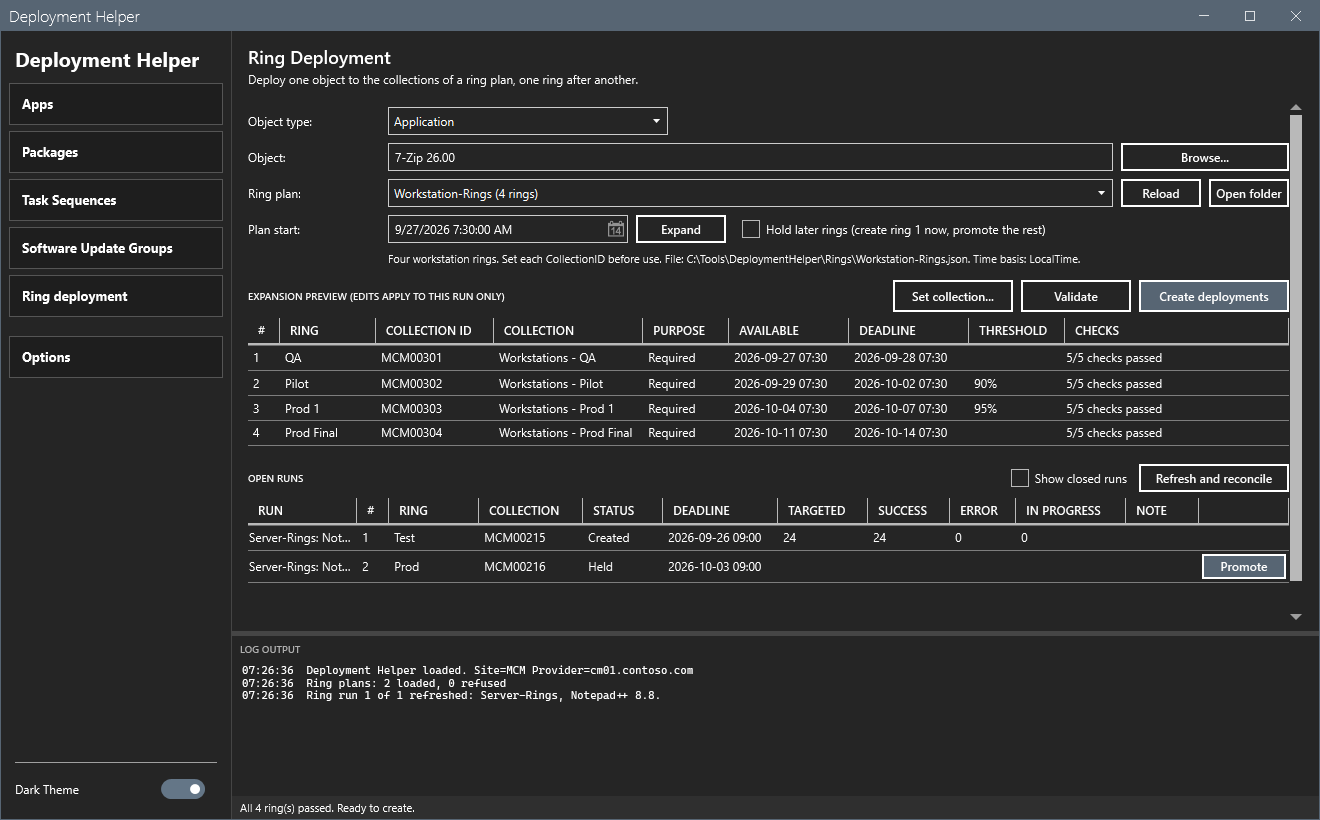
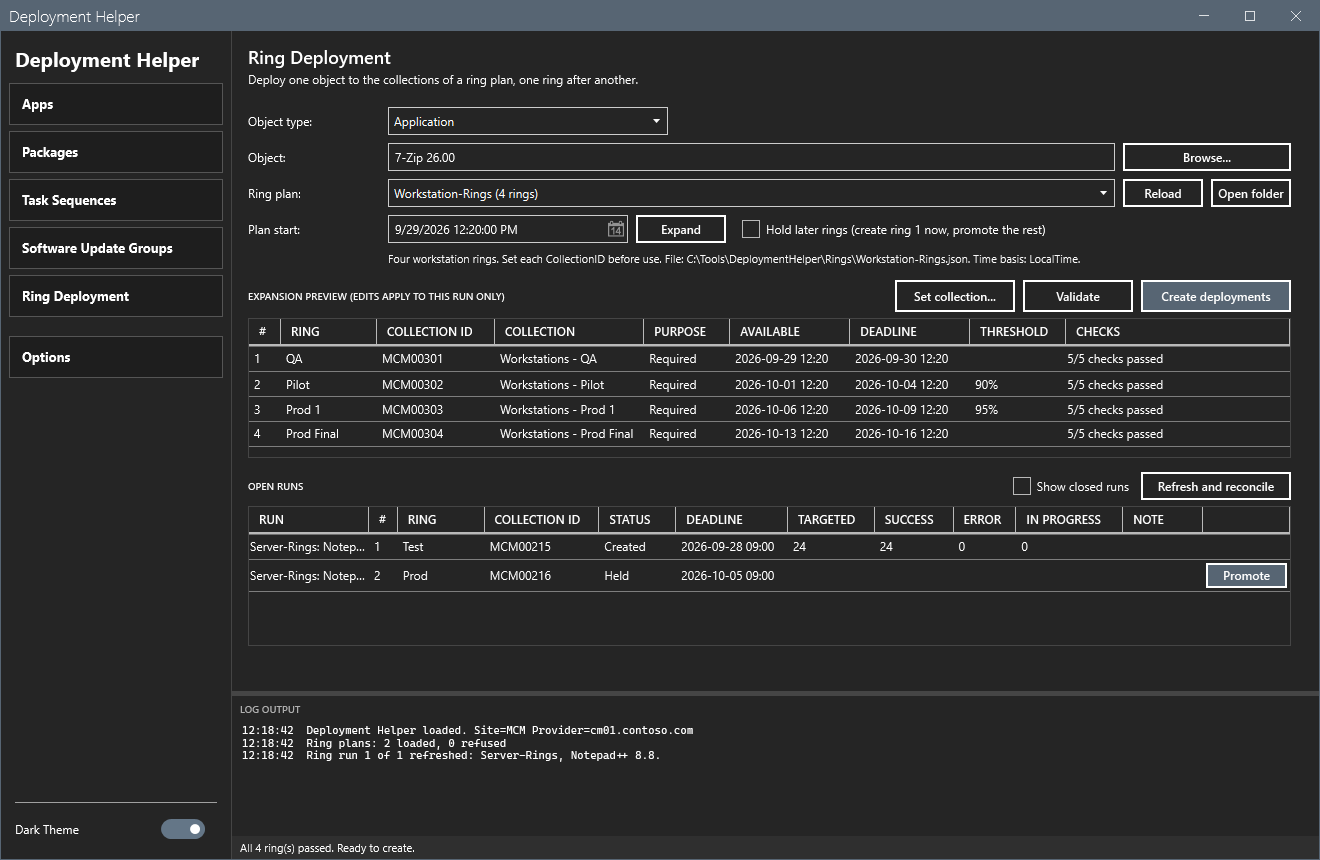
Show every object in the browse lists; name browse columns in full; match labels, product name, checkbox names, muted text, and dialog sizes across panes; hide the deadline for Available; fit the ring view at 1320 x 860; outline the ring grids; add a scroll bar gutter; update the screenshots; sync S

diff --git a/MainWindow.xaml b/MainWindow.xaml
@@ -3,7 +3,7 @@
     xmlns:x="http://schemas.microsoft.com/winfx/2006/xaml"
     xmlns:Controls="clr-namespace:MahApps.Metro.Controls;assembly=MahApps.Metro"
     Title="Deployment Helper"
-    Width="1280" Height="720"
+    Width="1320" Height="860"
     MinWidth="960" MinHeight="600"
     WindowStartupLocation="CenterScreen"
     TitleCharacterCasing="Normal"
@@ -182,7 +182,7 @@
                                 ToolTip="Deploy a task sequence to a device collection"/>
                         <Button x:Name="btnSUG"             Content="Software Update Groups" Style="{StaticResource WorkflowButtonStyle}"
                                 ToolTip="Deploy a software update group to a device collection"/>
-                        <Button x:Name="btnRings"           Content="Ring deployment"        Style="{StaticResource WorkflowButtonStyle}"
+                        <Button x:Name="btnRings"           Content="Ring Deployment"        Style="{StaticResource WorkflowButtonStyle}"
                                 ToolTip="Deploy one object to several collections in rings from a ring plan"/>
 
                         <Button x:Name="btnOptions"         Content="Options"                Style="{StaticResource OptionsButtonStyle}"
@@ -205,7 +205,7 @@
                 <RowDefinition Height="Auto"/>
                 <RowDefinition Height="*"/>
                 <RowDefinition Height="Auto"/>
-                <RowDefinition Height="160"/>
+                <RowDefinition Height="140"/>
                 <RowDefinition Height="Auto"/>
             </Grid.RowDefinitions>
 
@@ -232,11 +232,14 @@
                     <RowDefinition Height="Auto"/>
                 </Grid.RowDefinitions>
                 <ScrollViewer Grid.Row="0" VerticalScrollBarVisibility="Auto">
-                <StackPanel>
+                <StackPanel Margin="0,0,12,0">
 
                     <!-- Shared form fields (visible for all types) -->
                     <Grid>
                         <Grid.RowDefinitions>
+                            <RowDefinition Height="Auto"/>
+                            <RowDefinition Height="Auto"/>
+                            <RowDefinition Height="Auto"/>
                             <RowDefinition Height="Auto"/>
                             <RowDefinition Height="Auto"/>
                             <RowDefinition Height="Auto"/>
@@ -259,7 +262,7 @@
                         <TextBox x:Name="txtTargetName" Grid.Row="0" Grid.Column="1" FontSize="12" Height="28" VerticalContentAlignment="Center" Margin="0,8,0,8"
                                  Controls:TextBoxHelper.Watermark="e.g. 7-Zip 26.00"/>
                         <Button x:Name="btnBrowseTarget" Grid.Row="0" Grid.Column="2" Content="Browse..." Style="{StaticResource BrowseButtonStyle}" Margin="8,8,0,8"
-                                ToolTip="Pick an application, package, task sequence, or SUG from ConfigMgr"/>
+                                ToolTip="Pick an application, package, task sequence, or SUG from Configuration Manager"/>
 
                         <!-- Program (Packages type only) -->
                         <TextBlock x:Name="lblProgram" Grid.Row="1" Grid.Column="0" Text="Program:" Style="{StaticResource FormLabelStyle}" Margin="0,0,12,8" Visibility="Collapsed"/>
@@ -272,7 +275,7 @@
                         <TextBox x:Name="txtCollection" Grid.Row="2" Grid.Column="1" FontSize="12" Height="28" VerticalContentAlignment="Center" Margin="0,0,0,8"
                                  Controls:TextBoxHelper.Watermark="Device collection name (e.g. Workstations - Pilot)"/>
                         <Button x:Name="btnBrowseCollection" Grid.Row="2" Grid.Column="2" Content="Browse..." Style="{StaticResource BrowseButtonStyle}" Margin="8,0,0,8"
-                                ToolTip="Pick a device collection from ConfigMgr"/>
+                                ToolTip="Pick a device collection from Configuration Manager"/>
 
                         <!-- Purpose -->
                         <TextBlock Grid.Row="3" Grid.Column="0" Text="Purpose:" Style="{StaticResource FormLabelStyle}" Margin="0,0,12,8"/>
@@ -287,9 +290,9 @@
                                                  FontSize="12" Height="28" Margin="0,0,0,8"/>
 
                         <!-- Deadline datetime (only when Required) -->
-                        <TextBlock x:Name="lblDeadline" Grid.Row="5" Grid.Column="0" Text="Deadline:" Style="{StaticResource FormLabelStyle}" Margin="0,0,12,8"/>
+                        <TextBlock x:Name="lblDeadline" Grid.Row="5" Grid.Column="0" Text="Deadline:" Style="{StaticResource FormLabelStyle}" Margin="0,0,12,8" Visibility="Collapsed"/>
                         <Controls:DateTimePicker x:Name="dtpDeadline" Grid.Row="5" Grid.Column="1" Width="240" HorizontalAlignment="Left"
-                                                 FontSize="12" Height="28" IsEnabled="False" Margin="0,0,0,8"/>
+                                                 FontSize="12" Height="28" Visibility="Collapsed" Margin="0,0,0,8"/>
 
                         <!-- Notification (Apps type only; packages don't use UserNotification) -->
                         <TextBlock x:Name="lblNotification" Grid.Row="6" Grid.Column="0" Text="Notification:" Style="{StaticResource FormLabelStyle}" Margin="0,0,12,8"/>
@@ -323,68 +326,49 @@
                         <!-- Required-only: override service window + reboot outside -->
                         <StackPanel x:Name="pnlRequiredOptions" Grid.Row="9" Grid.Column="1" Grid.ColumnSpan="2" Orientation="Vertical" Margin="0,0,0,8" Visibility="Collapsed">
                             <CheckBox x:Name="chkOverrideSW"   Content="Override maintenance window"    FontSize="12" Margin="0,0,0,4"/>
-                            <CheckBox x:Name="chkRebootOutSW"  Content="Reboot outside maintenance window" FontSize="12" Margin="0,0,0,4"/>
-                            <CheckBox x:Name="chkMetered"      Content="Allow install on metered network" FontSize="12" Margin="0,0,0,0"/>
+                            <CheckBox x:Name="chkRebootOutSW"  Content="Allow restart outside maintenance window" FontSize="12" Margin="0,0,0,4"/>
+                            <CheckBox x:Name="chkMetered"      Content="Allow download on metered network" FontSize="12" Margin="0,0,0,0"/>
                         </StackPanel>
 
-                        <!-- Packages-only options: network behavior + rerun + Required-extras. -->
-                        <!-- Self-contained on Grid.Row=9 so no overlap with pnlRequiredOptions   -->
-                        <!-- (which is now Apps-only).                                            -->
+                        <!-- Packages-only checkboxes; the network and rerun rows are rows 10-12. -->
                         <StackPanel x:Name="pnlPackageOptions" Grid.Row="9" Grid.Column="1" Grid.ColumnSpan="2" Orientation="Vertical" Margin="0,0,0,8" Visibility="Collapsed">
-                            <CheckBox x:Name="chkPkgOverrideSW"   Content="Override maintenance window (install outside MW)" FontSize="12" Margin="0,0,0,4"/>
-                            <CheckBox x:Name="chkPkgRebootOutSW"  Content="Allow restart outside maintenance window"         FontSize="12" Margin="0,0,0,4"/>
-                            <CheckBox x:Name="chkPkgMetered"      Content="Use metered network"                              FontSize="12" Margin="0,0,0,4"/>
-                            <Grid Margin="0,0,0,4">
-                                <Grid.ColumnDefinitions>
-                                    <ColumnDefinition Width="140"/>
-                                    <ColumnDefinition Width="*"/>
-                                </Grid.ColumnDefinitions>
-                                <TextBlock Grid.Column="0" Text="Fast network:" FontSize="12" VerticalAlignment="Center"/>
-                                <ComboBox  Grid.Column="1" x:Name="cboPkgFastNetwork" FontSize="12" Height="26">
-                                    <ComboBoxItem Tag="DownloadContentFromDistributionPointAndRunLocally" Content="Download content from DP and run locally" IsSelected="True"/>
-                                    <ComboBoxItem Tag="RunProgramFromDistributionPoint"                    Content="Run program from DP"/>
-                                </ComboBox>
-                            </Grid>
-                            <Grid Margin="0,0,0,4">
-                                <Grid.ColumnDefinitions>
-                                    <ColumnDefinition Width="140"/>
-                                    <ColumnDefinition Width="*"/>
-                                </Grid.ColumnDefinitions>
-                                <TextBlock Grid.Column="0" Text="Slow network:" FontSize="12" VerticalAlignment="Center"/>
-                                <ComboBox  Grid.Column="1" x:Name="cboPkgSlowNetwork" FontSize="12" Height="26">
-                                    <ComboBoxItem Tag="DoNotRunProgram"                                 Content="Do not run program" IsSelected="True"/>
-                                    <ComboBoxItem Tag="DownloadContentFromDistributionPointAndLocally"  Content="Download content from DP and run locally"/>
-                                    <ComboBoxItem Tag="RunProgramFromDistributionPoint"                 Content="Run program from DP"/>
-                                </ComboBox>
-                            </Grid>
-                            <Grid>
-                                <Grid.ColumnDefinitions>
-                                    <ColumnDefinition Width="140"/>
-                                    <ColumnDefinition Width="*"/>
-                                </Grid.ColumnDefinitions>
-                                <TextBlock Grid.Column="0" Text="Rerun behavior:" FontSize="12" VerticalAlignment="Center"/>
-                                <ComboBox  Grid.Column="1" x:Name="cboPkgRerun" FontSize="12" Height="26">
-                                    <ComboBoxItem Tag="NeverRerunDeployedProgram"         Content="Never rerun deployed program" IsSelected="True"/>
-                                    <ComboBoxItem Tag="AlwaysRerunProgram"                Content="Always rerun program"/>
-                                    <ComboBoxItem Tag="RerunIfFailedPreviousAttempt"      Content="Rerun if failed previous attempt"/>
-                                    <ComboBoxItem Tag="RerunIfSucceededOnPreviousAttempt" Content="Rerun if succeeded on previous attempt"/>
-                                </ComboBox>
-                            </Grid>
+                            <CheckBox x:Name="chkPkgOverrideSW"   Content="Override maintenance window"             FontSize="12" Margin="0,0,0,4"/>
+                            <CheckBox x:Name="chkPkgRebootOutSW"  Content="Allow restart outside maintenance window" FontSize="12" Margin="0,0,0,4"/>
+                            <CheckBox x:Name="chkPkgMetered"      Content="Allow download on metered network"       FontSize="12" Margin="0,0,0,0"/>
                         </StackPanel>
+
+                        <TextBlock x:Name="lblPkgFastNetwork" Grid.Row="10" Grid.Column="0" Text="Fast network:" Style="{StaticResource FormLabelStyle}" Margin="0,0,12,8" Visibility="Collapsed"/>
+                        <ComboBox  x:Name="cboPkgFastNetwork" Grid.Row="10" Grid.Column="1" Grid.ColumnSpan="2" FontSize="12" Height="28" VerticalContentAlignment="Center" Margin="0,0,0,8" Visibility="Collapsed">
+                            <ComboBoxItem Tag="DownloadContentFromDistributionPointAndRunLocally" Content="Download content from DP and run locally" IsSelected="True"/>
+                            <ComboBoxItem Tag="RunProgramFromDistributionPoint"                    Content="Run program from DP"/>
+                        </ComboBox>
+                        <TextBlock x:Name="lblPkgSlowNetwork" Grid.Row="11" Grid.Column="0" Text="Slow network:" Style="{StaticResource FormLabelStyle}" Margin="0,0,12,8" Visibility="Collapsed"/>
+                        <ComboBox  x:Name="cboPkgSlowNetwork" Grid.Row="11" Grid.Column="1" Grid.ColumnSpan="2" FontSize="12" Height="28" VerticalContentAlignment="Center" Margin="0,0,0,8" Visibility="Collapsed">
+                            <ComboBoxItem Tag="DoNotRunProgram"                                 Content="Do not run program" IsSelected="True"/>
+                            <ComboBoxItem Tag="DownloadContentFromDistributionPointAndLocally"  Content="Download content from DP and run locally"/>
+                            <ComboBoxItem Tag="RunProgramFromDistributionPoint"                 Content="Run program from DP"/>
+                        </ComboBox>
+                        <TextBlock x:Name="lblPkgRerun" Grid.Row="12" Grid.Column="0" Text="Rerun behavior:" Style="{StaticResource FormLabelStyle}" Margin="0,0,12,8" Visibility="Collapsed"/>
+                        <ComboBox  x:Name="cboPkgRerun" Grid.Row="12" Grid.Column="1" Grid.ColumnSpan="2" FontSize="12" Height="28" VerticalContentAlignment="Center" Margin="0,0,0,8" Visibility="Collapsed">
+                            <ComboBoxItem Tag="NeverRerunDeployedProgram"         Content="Never rerun deployed program" IsSelected="True"/>
+                            <ComboBoxItem Tag="AlwaysRerunProgram"                Content="Always rerun program"/>
+                            <ComboBoxItem Tag="RerunIfFailedPreviousAttempt"      Content="Rerun if failed previous attempt"/>
+                            <ComboBoxItem Tag="RerunIfSucceededOnPreviousAttempt" Content="Rerun if succeeded on previous attempt"/>
+                        </ComboBox>
 
                         <!-- Task Sequence-only options -->
                         <StackPanel x:Name="pnlTaskSequenceOptions" Grid.Row="9" Grid.Column="1" Grid.ColumnSpan="2" Orientation="Vertical" Margin="0,0,0,8" Visibility="Collapsed">
-                            <CheckBox x:Name="chkTsOverrideSW"   Content="Override maintenance window (install outside MW)" FontSize="12" Margin="0,0,0,4"/>
+                            <CheckBox x:Name="chkTsOverrideSW"   Content="Override maintenance window" FontSize="12" Margin="0,0,0,4"/>
                             <CheckBox x:Name="chkTsRebootOutSW"  Content="Allow restart outside maintenance window"         FontSize="12" Margin="0,0,0,4"/>
-                            <CheckBox x:Name="chkTsMetered"      Content="Use metered network"                              FontSize="12" Margin="0,0,0,4"/>
+                            <CheckBox x:Name="chkTsMetered"      Content="Allow download on metered network" FontSize="12" Margin="0,0,0,4"/>
                             <CheckBox x:Name="chkShowProgress"   Content="Show task sequence progress on client" FontSize="12" Margin="0,0,0,0" IsChecked="True"/>
                         </StackPanel>
 
                         <!-- SUG-only options -->
                         <StackPanel x:Name="pnlSUGOptions" Grid.Row="9" Grid.Column="1" Grid.ColumnSpan="2" Orientation="Vertical" Margin="0,0,0,8" Visibility="Collapsed">
-                            <CheckBox x:Name="chkSugOverrideSW"   Content="Override maintenance window (install outside MW)" FontSize="12" Margin="0,0,0,4"/>
+                            <CheckBox x:Name="chkSugOverrideSW"   Content="Override maintenance window" FontSize="12" Margin="0,0,0,4"/>
                             <CheckBox x:Name="chkSugAllowRestart" Content="Allow restart outside maintenance window"         FontSize="12" Margin="0,0,0,4"/>
-                            <CheckBox x:Name="chkSugMetered"      Content="Use metered network"                              FontSize="12" Margin="0,0,0,4"/>
+                            <CheckBox x:Name="chkSugMetered"      Content="Allow download on metered network" FontSize="12" Margin="0,0,0,4"/>
                             <CheckBox x:Name="chkMSFallback"       Content="Fall back to Microsoft Update if no DP has content" FontSize="12" Margin="0,0,0,4"/>
                             <CheckBox x:Name="chkBoundaryFallback" Content="Allow fallback to neighbor boundary groups" FontSize="12" Margin="0,0,0,4" IsChecked="True"/>
                             <CheckBox x:Name="chkFullScan"         Content="Require post-reboot full scan" FontSize="12" Margin="0,0,0,0" IsChecked="True"/>
@@ -397,7 +381,7 @@
                         <StackPanel>
                             <StackPanel Orientation="Horizontal" Margin="0,0,0,4">
                                 <TextBlock x:Name="glyphCheck1" Text="&#x22EF;" Style="{StaticResource CheckGlyphStyle}"/>
-                                <TextBlock x:Name="lblCheck1"   Text="Application exists in ConfigMgr"        Style="{StaticResource CheckLabelStyle}"/>
+                                <TextBlock x:Name="lblCheck1"   Text="Application exists in Configuration Manager" Style="{StaticResource CheckLabelStyle}"/>
                             </StackPanel>
                             <StackPanel Orientation="Horizontal" Margin="0,0,0,4">
                                 <TextBlock x:Name="glyphCheck2" Text="&#x22EF;" Style="{StaticResource CheckGlyphStyle}"/>
@@ -426,18 +410,18 @@
                     <Button x:Name="btnValidate" Content="Validate" MinWidth="110" Height="32" Margin="0,0,8,0"
                             Style="{DynamicResource MahApps.Styles.Button.Square}"
                             Controls:ControlsHelper.ContentCharacterCasing="Normal"
-                            ToolTip="Check all fields against ConfigMgr and confirm the deployment is ready"/>
+                            ToolTip="Check all fields against Configuration Manager and confirm the deployment is ready"/>
                     <Button x:Name="btnDeploy"   Content="Deploy"   MinWidth="110" Height="32" Visibility="Collapsed"
                             Style="{DynamicResource MahApps.Styles.Button.Square.Accent}"
                             Controls:ControlsHelper.ContentCharacterCasing="Normal"
-                            ToolTip="Create the deployment in ConfigMgr"/>
+                            ToolTip="Create the deployment in Configuration Manager"/>
                 </StackPanel>
             </Grid>
 
             <!-- Ring deployment pane: shares Grid.Row 1 with formPane; one of the two is visible. -->
             <Grid Grid.Row="1" x:Name="ringPane" Margin="16,6,16,6" Visibility="Collapsed">
                 <ScrollViewer VerticalScrollBarVisibility="Auto">
-                <StackPanel>
+                <StackPanel Margin="0,0,12,0">
                     <Grid>
                         <Grid.RowDefinitions>
                             <RowDefinition Height="Auto"/>
@@ -514,7 +498,7 @@
                                     ToolTip="Create the ring deployments in Configuration Manager"/>
                         </StackPanel>
                     </DockPanel>
-                    <DataGrid x:Name="dgRingPreview" Height="132"
+                    <DataGrid x:Name="dgRingPreview" Height="140" BorderThickness="1" BorderBrush="{DynamicResource MahApps.Brushes.Gray8}"
                               AutoGenerateColumns="False" CanUserAddRows="False" CanUserDeleteRows="False"
                               CanUserSortColumns="False" SelectionMode="Single" SelectionUnit="FullRow"
                               GridLinesVisibility="Horizontal" HeadersVisibility="Column" RowHeaderWidth="0"
@@ -548,13 +532,13 @@
                         <CheckBox x:Name="chkRingShowClosed" DockPanel.Dock="Right" Content="Show closed runs" FontSize="12"
                                   VerticalAlignment="Center" Margin="0,0,12,0"/>
                     </DockPanel>
-                    <DataGrid x:Name="dgRingRuns" Height="160"
+                    <DataGrid x:Name="dgRingRuns" Height="140" BorderThickness="1" BorderBrush="{DynamicResource MahApps.Brushes.Gray8}"
                               AutoGenerateColumns="False" CanUserAddRows="False" CanUserDeleteRows="False" IsReadOnly="True"
                               SelectionMode="Single" SelectionUnit="FullRow"
                               GridLinesVisibility="Horizontal" HeadersVisibility="Column" RowHeaderWidth="0"
                               ColumnHeaderHeight="28" FontSize="12">
                         <DataGrid.Columns>
-                            <DataGridTextColumn Header="Run" Binding="{Binding RunLabel}" Width="3*">
+                            <DataGridTextColumn Header="Run" Binding="{Binding RunLabel}" Width="3*" MinWidth="120">
                                 <DataGridTextColumn.ElementStyle>
                                     <Style TargetType="TextBlock">
                                         <Setter Property="TextTrimming" Value="CharacterEllipsis"/>
@@ -564,14 +548,14 @@
                             </DataGridTextColumn>
                             <DataGridTextColumn Header="#" Binding="{Binding Index}" Width="32"/>
                             <DataGridTextColumn Header="Ring" Binding="{Binding Name}" Width="90"/>
-                            <DataGridTextColumn Header="Collection" Binding="{Binding CollectionID}" Width="104"/>
+                            <DataGridTextColumn Header="Collection ID" Binding="{Binding CollectionID}" Width="118"/>
                             <DataGridTextColumn Header="Status" Binding="{Binding Status}" Width="80"/>
                             <DataGridTextColumn Header="Deadline" Binding="{Binding DeadlineText}" Width="115"/>
                             <DataGridTextColumn Header="Targeted" Binding="{Binding Targeted}" Width="90"/>
                             <DataGridTextColumn Header="Success" Binding="{Binding Success}" Width="82"/>
                             <DataGridTextColumn Header="Error" Binding="{Binding Errors}" Width="66"/>
                             <DataGridTextColumn Header="In progress" Binding="{Binding InProgress}" Width="110"/>
-                            <DataGridTextColumn Header="Note" Binding="{Binding Note}" Width="2*">
+                            <DataGridTextColumn Header="Note" Binding="{Binding Note}" Width="2*" MinWidth="80">
                                 <DataGridTextColumn.ElementStyle>
                                     <Style TargetType="TextBlock">
                                         <Setter Property="TextTrimming" Value="CharacterEllipsis"/>

diff --git a/CHANGELOG.md b/CHANGELOG.md
@@ -1,5 +1,31 @@
 # Changelog
 
+## [2026.09.29.0012] - 2026-09-29
+
+## Browse lists show 11 of 11 lab applications instead of 1 row
+
+### Fixed
+
+- Show every object in the browse lists instead of one row of list data.
+- Show plain, full column names in the browse dialogs.
+- Fit the Ring Deployment view in 1320 x 860 without a scroll bar.
+- Leave a gap between the scroll bar and the buttons beside it.
+- Draw an outline around both ring grids.
+- Keep the Note and Promote columns visible in the open-runs grid.
+- Align the Packages network and rerun rows with the other field labels.
+- Fit the template toolbar buttons above the template list.
+
+### Changed
+
+- Call the product Configuration Manager in every label and tooltip.
+- Hide the deadline field for Available deployments instead of disabling it.
+- Use the same checkbox names for every deployment type and in templates.
+- Name the collection ID column the same in both ring grids.
+- Use one muted text color, one button height, and one margin in every dialog.
+- Open at 1320 x 860 by default with shorter ring grids and log drawer.
+- Update the README screenshots.
+- Update the shared SuiteCommon module to 2026.09.27.0037.
+
 ## [2026.09.27.0011] - 2026-09-27
 
 ## The ring view shows the preview and open runs together at 1320 x 820
